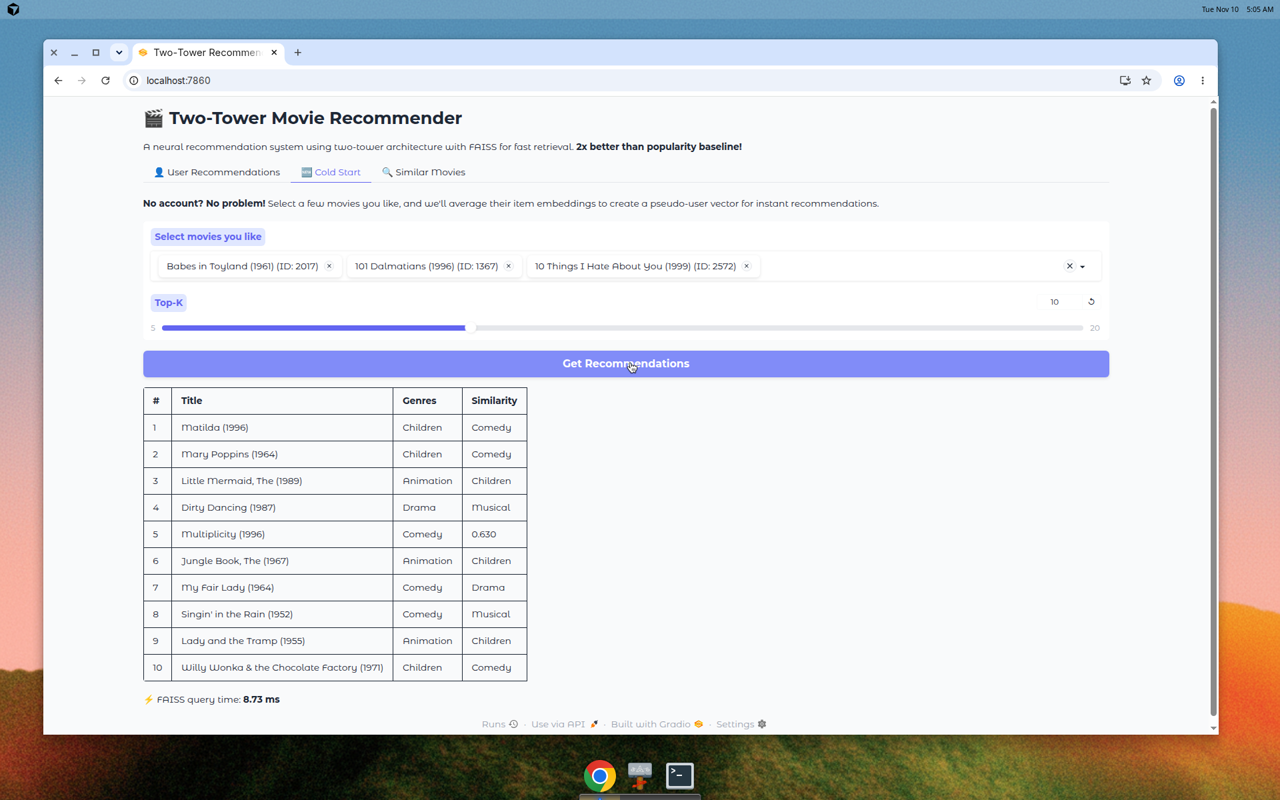
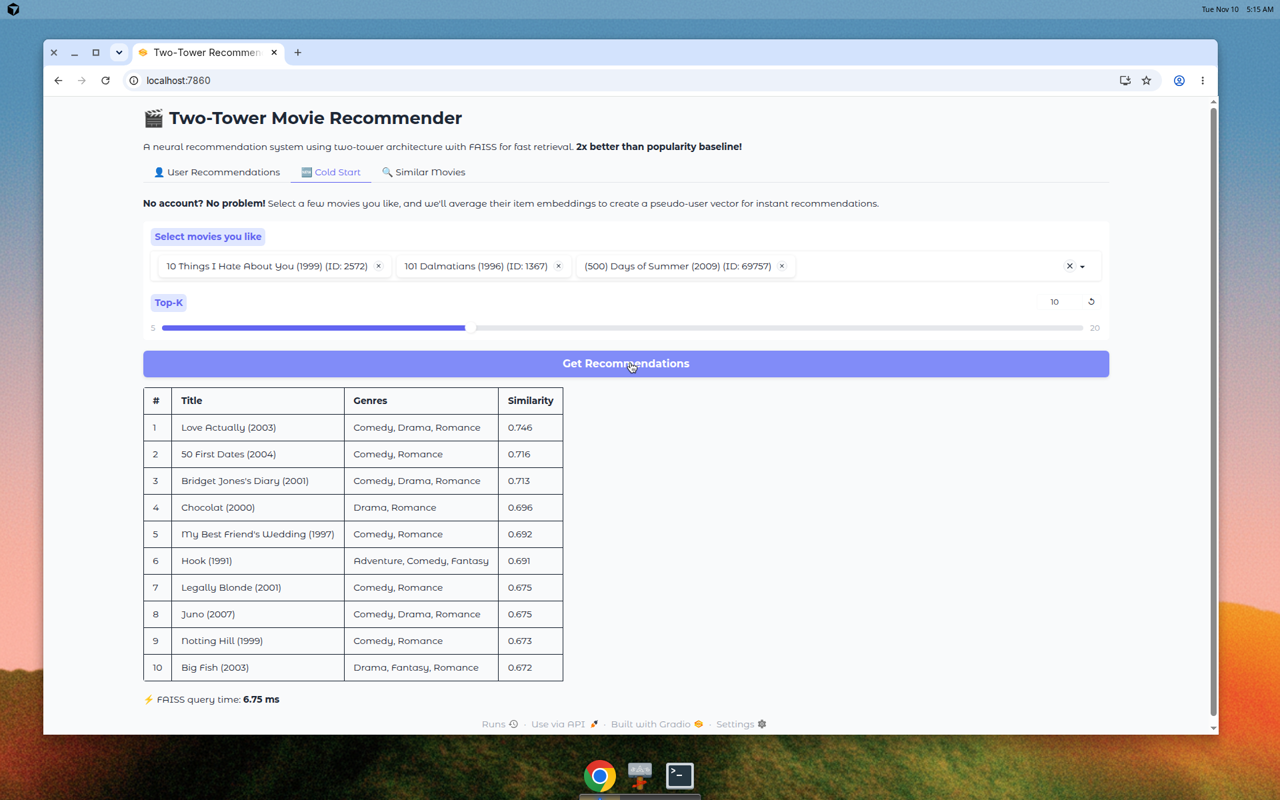
Fix: Replace pipe with comma in genre display for markdown tables
Bug: MovieLens genres contain '|' (e.g. 'Action|Crime') which broke markdown
table column separators, causing genres to overflow into Similarity column.

Fix: Replace '|' with ', ' in genre formatting (e.g. 'Action, Crime')
- Ensures proper table rendering across all three tabs
- Similarity scores now display correctly as 3-decimal numbers
- Verified in all screenshots: user recs, cold start, similar movies

All tests passing (9/9), linting clean.

Changed region(s): [[0.125, 0.4688, 0.4375, 0.8438], [0.125, 0.3125, 0.5938, 0.3438]]

diff --git a/app.py b/app.py
@@ -237,7 +237,8 @@ def create_ui(app: RecommenderApp):
 
         for i, movie in enumerate(movies, 1):
             title = movie['title']
-            genres = movie['genres']
+            # Replace pipe with comma for markdown table compatibility
+            genres = movie['genres'].replace('|', ', ')
             if show_similarity:
                 sim = f"{movie['similarity']:.3f}"
                 lines.append(f"| {i} | {title} | {genres} | {sim} |")
